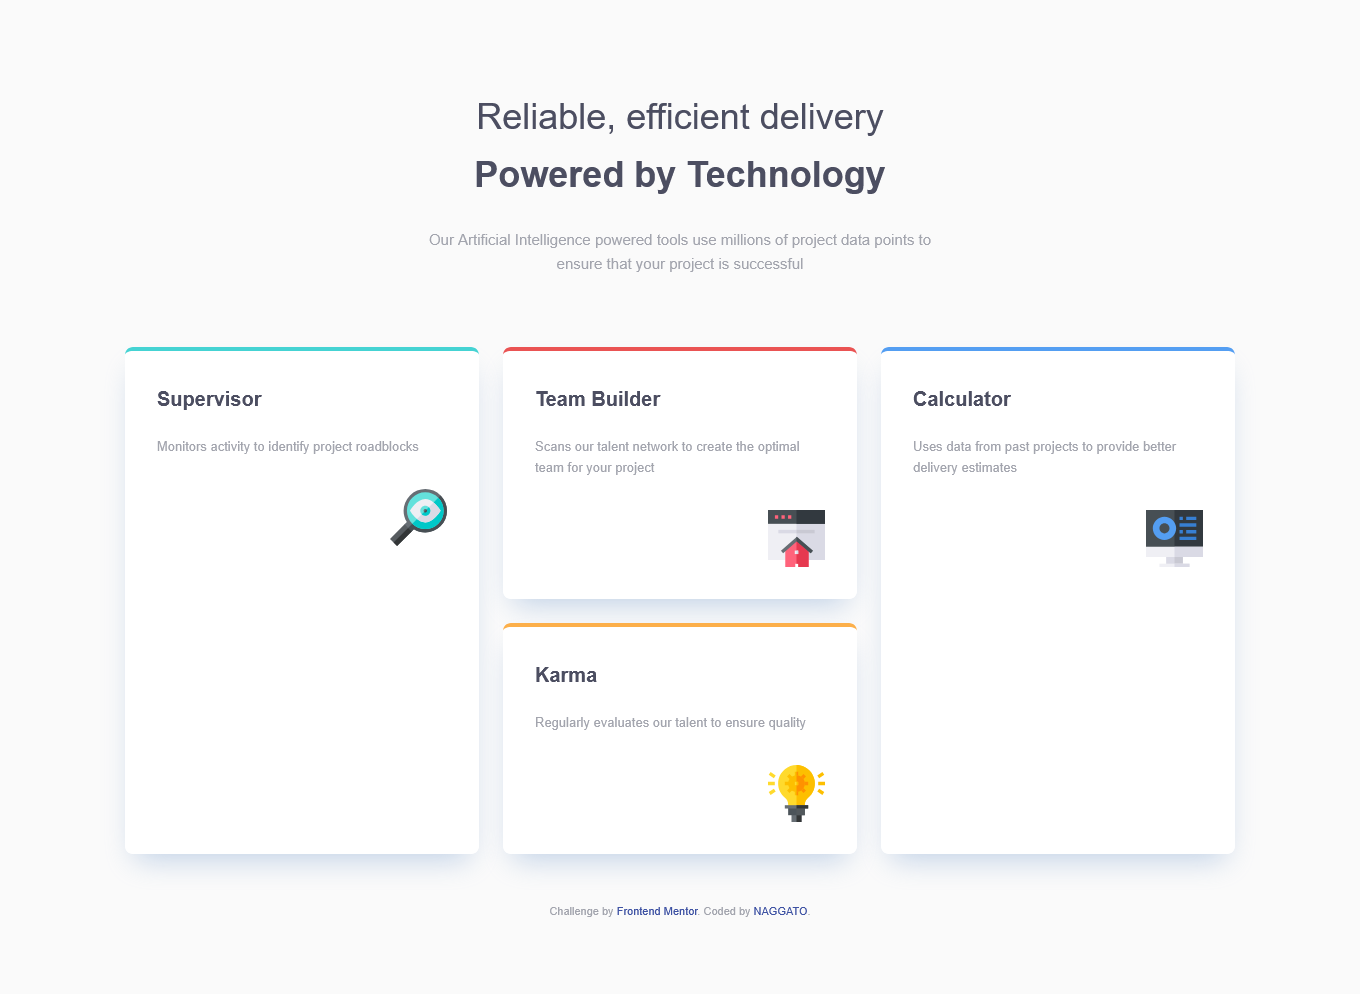
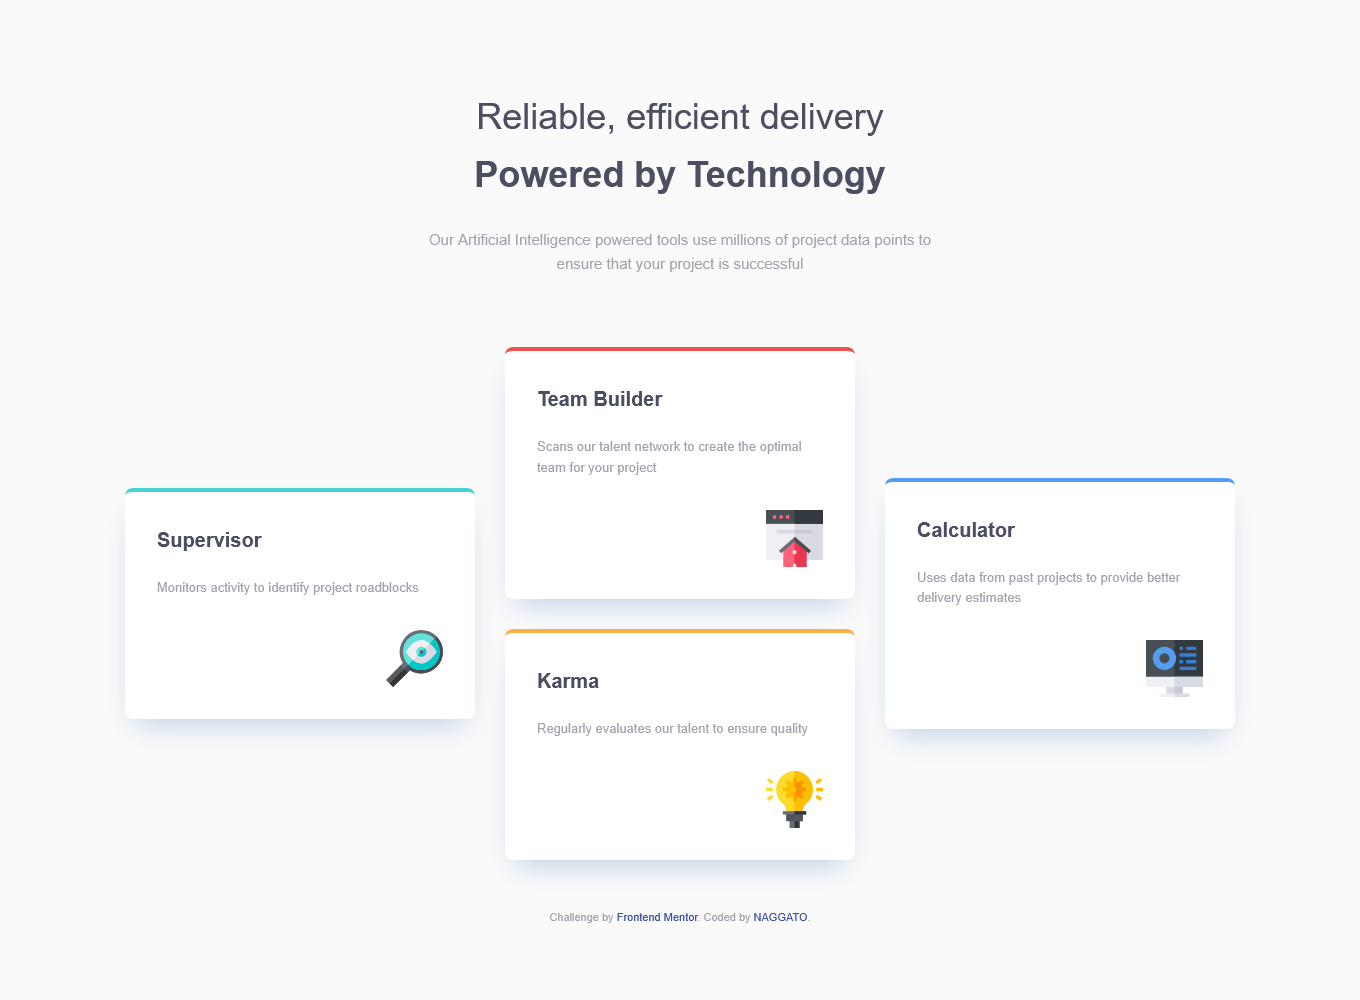
Quarter Commit - Atualizations

diff --git a/css/styles.css b/css/styles.css
@@ -119,13 +119,18 @@ body {
         font-size: 2.25rem;
     }
     .cards-grid {
+        display: grid;
         grid-template-columns: repeat(3, 1fr);
+        gap: 1.875rem;
+        align-items: center;
     }
     .card--cyan {
         grid-column: 1;
     }
     .cards-grid__middle {
         grid-column: 2;
+        display: grid;
+        gap: 1.875rem;
     }
     .card--blue {
         grid-column: 3;
